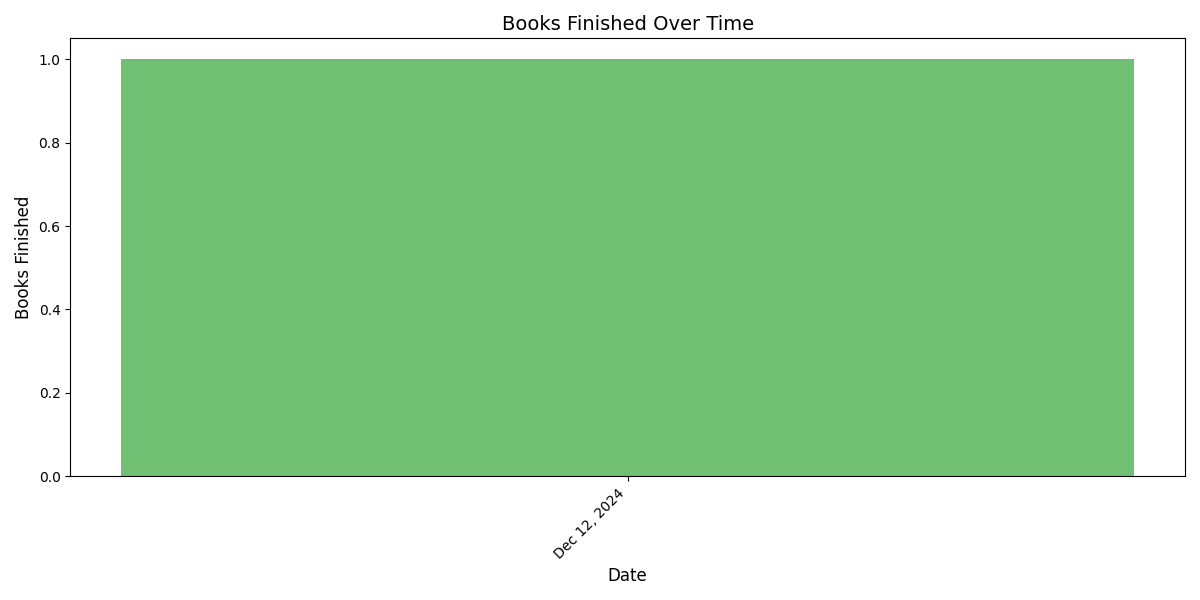
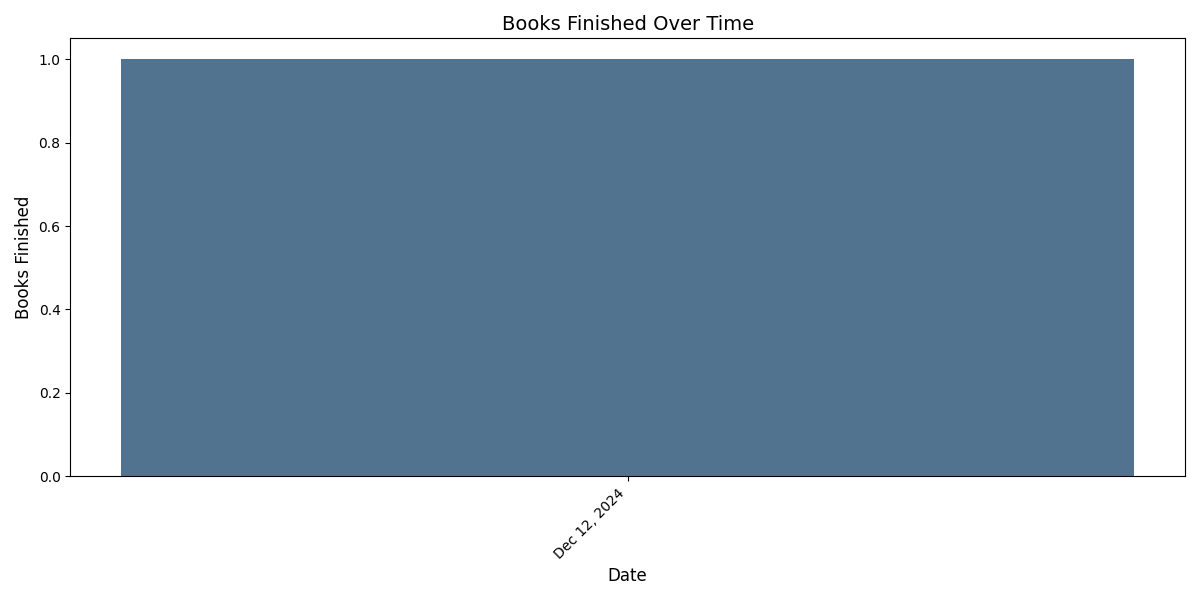
Adjust bar color

diff --git a/src/BackEnd/PageRhythm/services/statistics/statistics_service.py b/src/BackEnd/PageRhythm/services/statistics/statistics_service.py
@@ -111,7 +111,7 @@ class StatisticsService:
     def get_diagram_of_finished_books_by_days(self, user_id: int):
         # Retrieve finished book counts by days
         finished_book_counts = self.get_finished_book_count_by_days(user_id)
-        
+
         # If there are no finished books, handle gracefully
         if not finished_book_counts:
             raise ValueError("No finished books data available for the user.")
@@ -122,10 +122,15 @@ class StatisticsService:
 
         # Generate readable labels for each date (e.g., Dec 10, 2024)
         labels = [datetime.date(*date).strftime('%b %d, %Y') for date in sorted_dates]
+
+        # Dynamically adjust the figure size based on the number of data points
+        num_data_points = len(sorted_dates)
+        width_factor = max(0.5, 10 / num_data_points)  # Avoid too wide bars if there's just one book read
         
         # Plot the bar chart
-        plt.figure(figsize=(12, 6))
-        plt.bar(labels, counts, color="#4CAF50", alpha=0.8)
+        plt.figure(figsize=(num_data_points * width_factor, 6))  # Adjust width based on data points
+        plt.bar(labels, counts, color="#265073", alpha=0.8)
+        
         plt.xlabel("Date", fontsize=12)
         plt.ylabel("Books Finished", fontsize=12)
         plt.title("Books Finished Over Time", fontsize=14)

diff --git a/src/BackEnd/PageRhythm/app.py b/src/BackEnd/PageRhythm/app.py
@@ -44,7 +44,7 @@ if __name__ == "__main__":
 
     b = statistics_service.get_diagram_of_finished_books_by_days(62)
 
-    image = Image.open(BytesIO(b))  # Load the binary data into an image object
-    image.save("finished_books_diagram.png", "PNG")  # Save the image as a PNG file
+    image = Image.open(BytesIO(b)) 
+    image.save("hi_hello_finished_books_diagram.png", "PNG")
 
     app.run(debug = True)
